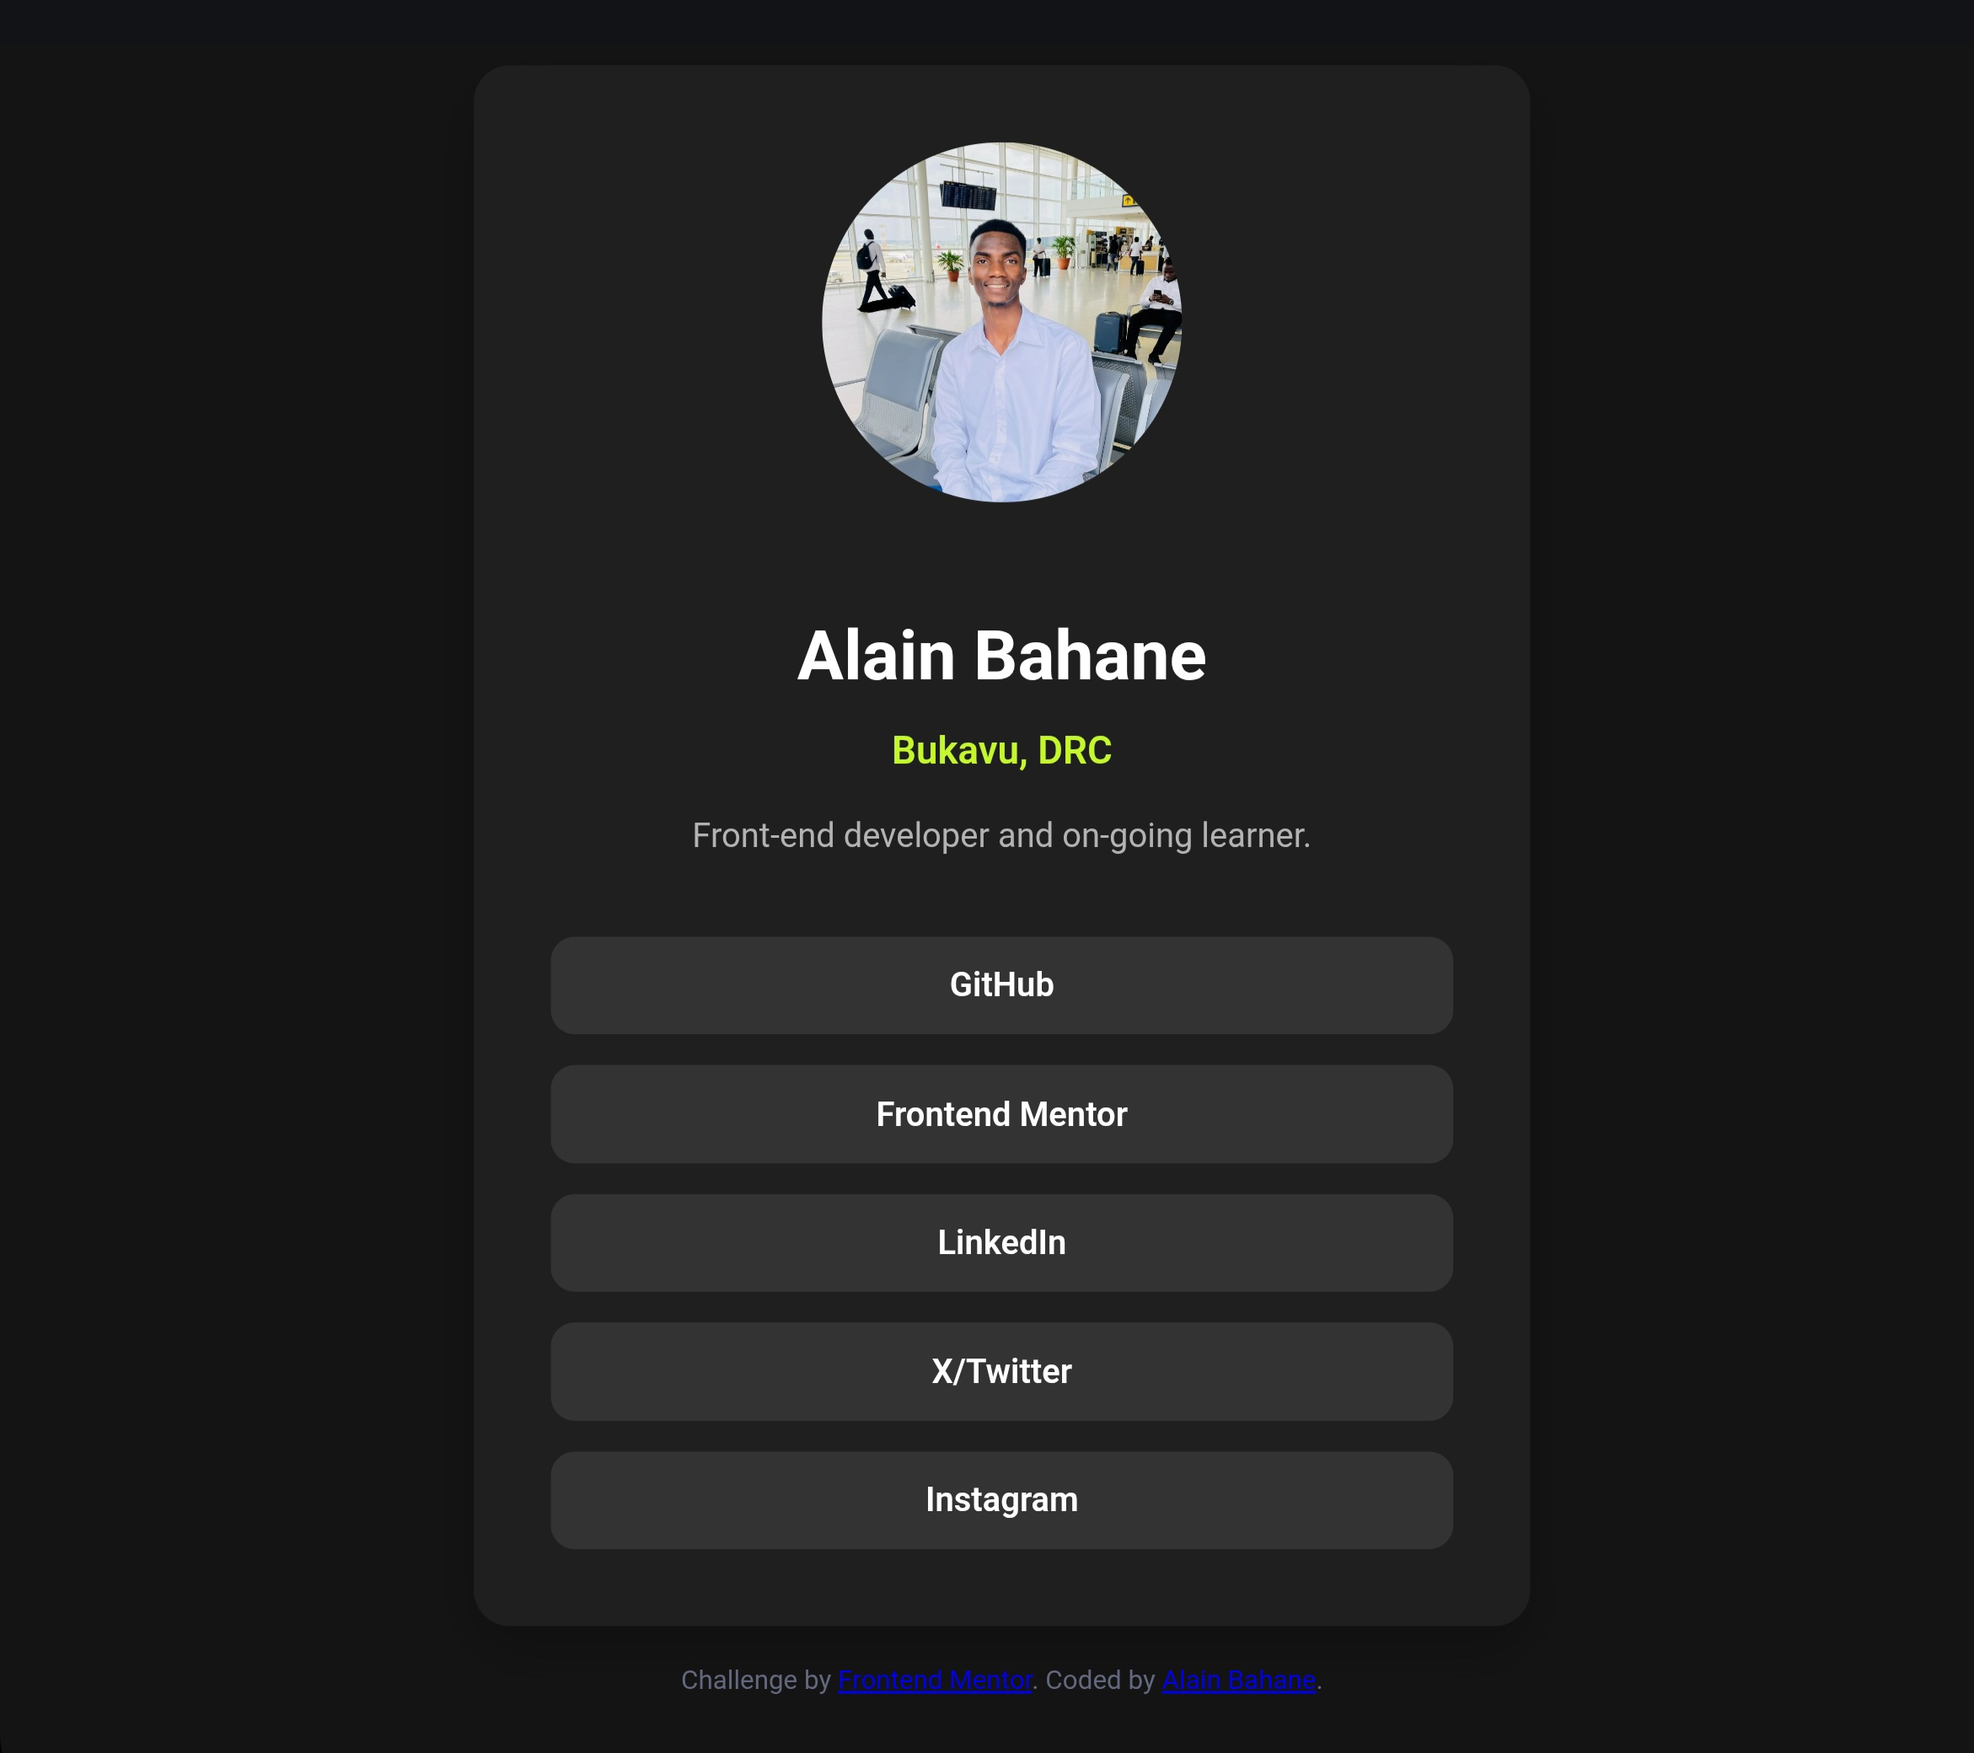
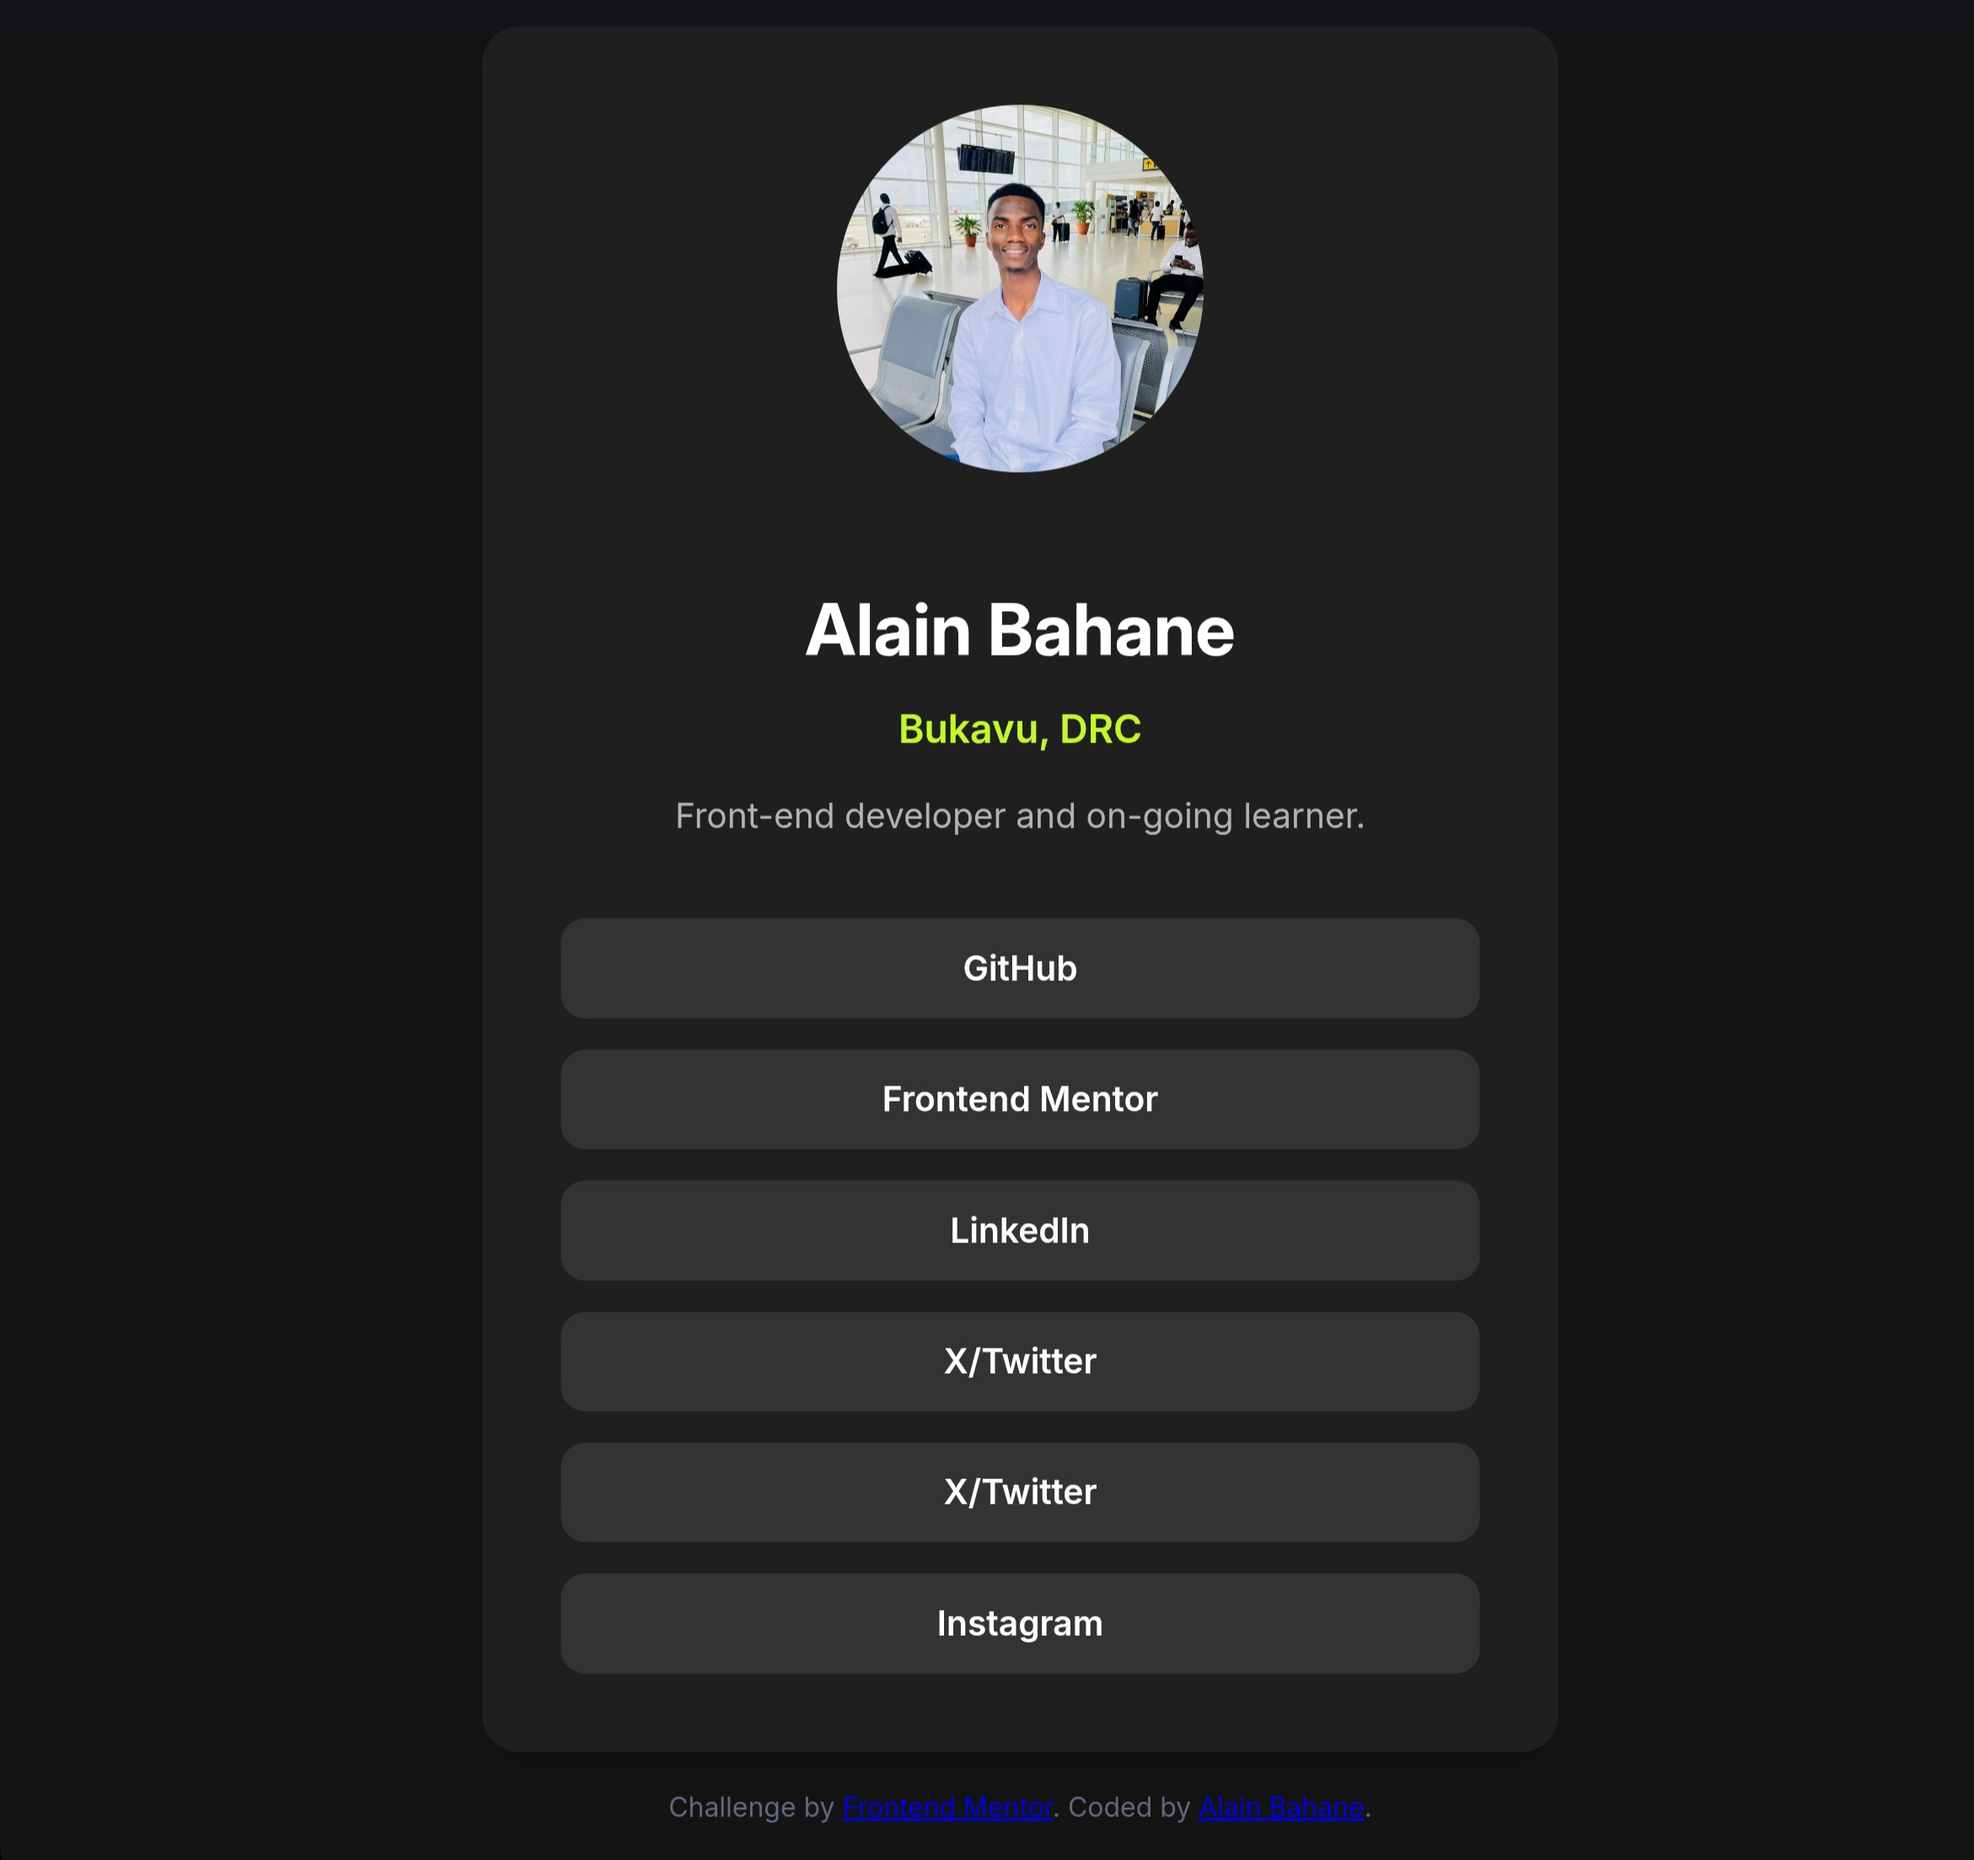
fix(ui): implement Inter font, refine color variables from style guide, and refresh screenshot

diff --git a/index.html b/index.html
@@ -5,7 +5,9 @@
   <meta name="viewport" content="width=device-width, initial-scale=1.0">
   <title>Frontend Mentor | Social Links Profile</title>
   <link rel="stylesheet" href="style.css">
-
+  <link rel="preconnect" href="https://fonts.googleapis.com">
+  <link rel="preconnect" href="https://fonts.gstatic.com" crossorigin>
+  <link href="https://fonts.googleapis.com/css2?family=Inter:ital,opsz,wght@0,14..32,100..900;1,14..32,100..900&display=swap" rel="stylesheet">
   <!-- Favicon -->
   <link rel="icon" type="image/png" sizes="32x32" href="assets/images/favicon-32x32.png">
 </head>

diff --git a/style.css b/style.css
@@ -15,7 +15,9 @@ body {
   min-height: 100vh;
   background-color: var(--grey-900);
   color: var(--white);
+  font-family: 'Inter', sans-serif;
   font-size: 14px;
+  margin: 0;
 }
 
 /* Profile Card Container */
